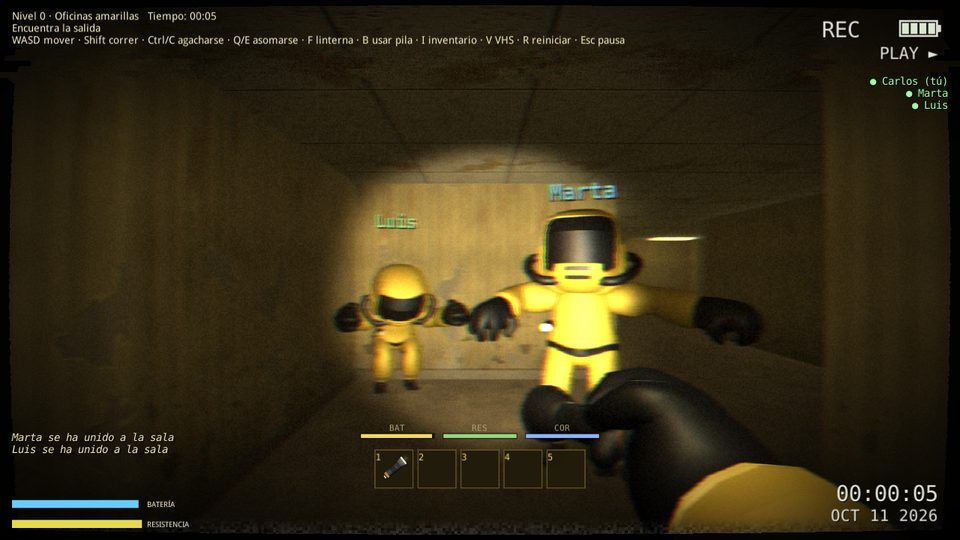
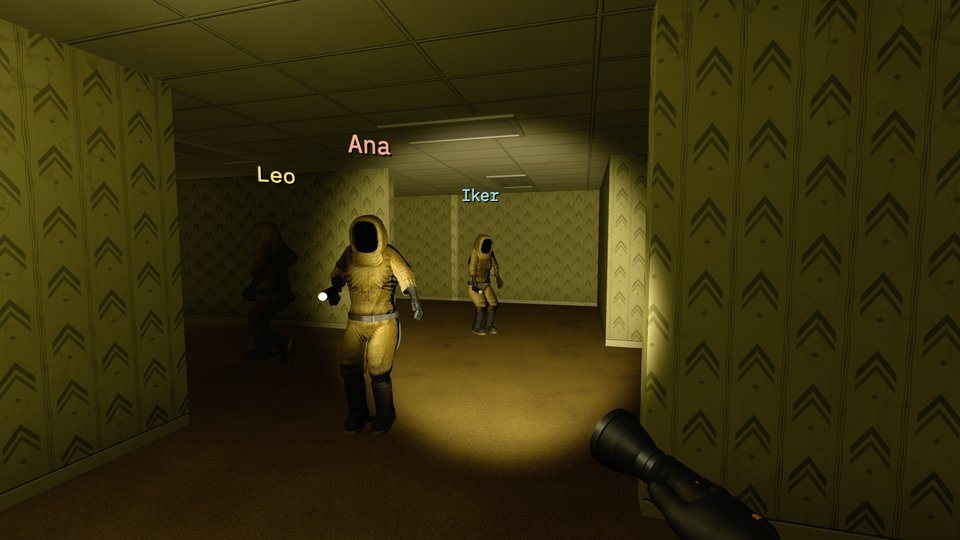
web: v7.11.0 (nuevo personaje del jugador hecho con Character Creator 5; MP-14, compatible con la v7.10.2/7.10.3), Novedades con capturas reales y galería del traje actualizada

diff --git a/docs/index.html b/docs/index.html
@@ -102,13 +102,13 @@
         <h1 class="glitch" id="hero-title" data-title data-text="BACKROOMS: ESCAPA">BACKROOMS: ESCAPA</h1>
         <p class="hero-tagline">Has atravesado la pared equivocada. Zumbido de fluorescentes, moqueta húmeda y kilómetros de pasillos amarillos. Algo te sigue. <strong>Encuentra la salida.</strong></p>
         <div class="hero-actions">
-          <a class="btn btn-primary" href="https://github.com/rootesq-pixel/backrooms-escapa/releases/download/v7.10.3/BackroomsEscape_v7_10_3_Windows.zip" download>
+          <a class="btn btn-primary" href="https://github.com/rootesq-pixel/backrooms-escapa/releases/download/v7.11.0/BackroomsEscape_v7_11_0_Windows.zip" download>
             <svg class="btn-icon" viewBox="0 0 24 24" aria-hidden="true" focusable="false"><path d="M3 5.5 10.5 4.4v7.1H3V5.5Zm0 13 7.5 1.1v-7H3v5.9Zm8.4 1.2L21 21v-8.4h-9.6v7.1Zm0-15.4v7.2H21V3l-9.6 1.3Z"/></svg>
             Descargar para Windows
           </a>
           <a class="btn btn-ghost" href="#trailer">Ver gameplay</a>
         </div>
-        <p class="hero-note">Build temprana v7.10.3 (alarma, latido y pasos más realistas) · Windows 64 bits · ≈ 369 MB (zip). <a href="https://github.com/rootesq-pixel/backrooms-escapa/releases" target="_blank" rel="noopener">Código y versiones<span class="sr-only"> (se abre en una pestaña nueva)</span></a></p>
+        <p class="hero-note">Build temprana v7.11.0 (nuevo personaje del jugador) · Windows 64 bits · ≈ 401 MB (zip). <a href="https://github.com/rootesq-pixel/backrooms-escapa/releases" target="_blank" rel="noopener">Código y versiones<span class="sr-only"> (se abre en una pestaña nueva)</span></a></p>
         <ul class="hero-facts" aria-label="Datos rápidos">
           <li><strong>8</strong> niveles</li>
           <li><strong>7</strong> criaturas</li>
@@ -148,6 +148,19 @@
         </header>
         <ol class="news-list">
           <li class="news-item news-latest">
+            <div class="news-meta"><span class="news-ver">v7.11.0</span><time datetime="2026-10-31">31 oct 2026</time></div>
+            <figure class="news-shot"><img src="assets/img/news-v7-11-0.jpg" alt="Cuatro capturas reales del juego con el nuevo traje hazmat: en primera persona mirando abajo se ven los guantes negros, las botas y la linterna; un compañero con el traje amarillo y la capucha de cara negra iluminado por la linterna; tres compañeros en las Oficinas amarillas; y las dos manos al volante del todoterreno en el desierto." width="1280" height="720" loading="lazy"></figure>
+            <div class="news-body">
+              <h3>Nuevo personaje del jugador</h3>
+              <ul>
+                <li><strong>Traje hazmat nuevo:</strong> el jugador es ahora un personaje realista hecho con <strong>Character Creator 5</strong>: traje amarillo de tela con costuras y arrugas, capucha con cara negra opaca, guantes y botas de goma negra. Mide unos 1,80 m.</li>
+                <li><strong>El mismo en todas partes:</strong> lo ves al mirar hacia abajo (manos, botas y sombra), lo ven tus compañeros en multijugador y es el conductor del todoterreno del Nivel 114, con las dos manos en el volante. Con el casco de buzo del Nivel 7 la capucha queda dentro de la cúpula.</li>
+                <li>Andar, correr y agacharse usan las mismas animaciones de antes, adaptadas al nuevo esqueleto.</li>
+                <li>Multijugador: sin cambios, sigue siendo <strong>MP-14</strong>. La v7.10.2, la v7.10.3 y la v7.11.0 <strong>pueden jugar juntas</strong> (cada uno ve a los demás con el traje de su versión). Si tienes una versión anterior, el menú principal te ofrece actualizar con un clic.</li>
+              </ul>
+            </div>
+          </li>
+          <li class="news-item">
             <div class="news-meta"><span class="news-ver">v7.10.3</span><time datetime="2026-10-29">29 oct 2026</time></div>
             <figure class="news-shot"><img src="assets/img/news-v7-10-3.jpg" alt="Captura del juego en el Nivel 0 durante un apagón rojo: junto al ascensor, las oficinas amarillas bañadas en la luz roja de emergencia mientras suena la alarma de evacuación." width="1280" height="720" loading="lazy"></figure>
             <div class="news-body">
@@ -763,7 +776,7 @@
           <li class="feature">
             <span class="feature-icon" aria-hidden="true">☢</span>
             <h3>Cuerpo completo con traje hazmat</h3>
-            <p>Mira hacia abajo y verás tu traje amarillo, tus botas y tu mano sujetando la linterna. El traje se empapa al entrar en el agua.</p>
+            <p>Mira hacia abajo y verás tu traje amarillo, tus botas y tu mano sujetando la linterna. El traje se empapa al entrar en el agua. Desde la v7.11.0, personaje hecho con Character Creator 5.</p>
           </li>
           <li class="feature">
             <span class="feature-icon" aria-hidden="true">▤</span>
@@ -831,7 +844,7 @@
             <h3>Cómo jugar con amigos</h3>
             <p class="mp-opt"><strong>Opción A · Con código</strong> (recomendada: sin abrir puertos, funciona incluso con CGNAT)</p>
             <ol class="steps">
-              <li><strong>Misma versión.</strong> Jugad con la v7.10.3 o la v7.10.2 (protocolo <strong>MP-14</strong>; se pueden mezclar); las versiones anteriores a la v7.10.2 (también la v7.10.0 y la v7.10.1) no pueden unirse. Desde la v7.5.0, si sale una versión nueva el menú principal os avisa y se actualiza con un clic.</li>
+              <li><strong>Misma versión.</strong> Jugad con la v7.11.0, la v7.10.3 o la v7.10.2 (protocolo <strong>MP-14</strong>; se pueden mezclar); las versiones anteriores a la v7.10.2 (también la v7.10.0 y la v7.10.1) no pueden unirse. Desde la v7.5.0, si sale una versión nueva el menú principal os avisa y se actualiza con un clic.</li>
               <li><strong>Anfitrión:</strong> menú principal → <em>Multijugador</em> → escribe tu nombre → <em>Alojar con código</em>. La sala muestra un código de 6 caracteres: pásaselo a tus amigos.</li>
               <li><strong>Clientes:</strong> <em>Multijugador</em> → nombre → <em>Unirse con código</em> → escribe el código. Entraréis en la sala de espera.</li>
               <li>El anfitrión elige el nivel con ◄ ► y pulsa <em>Empezar</em>. No se puede entrar en una partida ya empezada.</li>
@@ -866,10 +879,10 @@
             <p class="gallery-caption">Sala de espera · vista previa de desarrollo</p>
           </li>
           <li class="gallery-item">
-            <button type="button" class="gallery-btn" data-full="assets/img/mp-ingame.jpg" data-caption="Partida cooperativa: dos compañeros con traje hazmat y su nombre (vista previa de desarrollo; los amigos son simulados).">
-              <img src="assets/img/mp-ingame.jpg" alt="Primera persona en las Oficinas amarillas con dos compañeros con traje hazmat amarillo y sus nombres, Marta y Luis, sobre la cabeza." width="960" height="540" loading="lazy">
+            <button type="button" class="gallery-btn" data-full="assets/img/mp-ingame.jpg" data-caption="Partida cooperativa: tres compañeros con el traje hazmat y su nombre (captura real; los compañeros son simulados).">
+              <img src="assets/img/mp-ingame.jpg" alt="Primera persona en las Oficinas amarillas con la linterna encendida y tres compañeros con traje hazmat amarillo y capucha de cara negra, con sus nombres Ana, Leo e Iker sobre la cabeza." width="960" height="540" loading="lazy">
             </button>
-            <p class="gallery-caption">En partida · vista previa de desarrollo (compañeros simulados)</p>
+            <p class="gallery-caption">En partida · captura real (compañeros simulados)</p>
           </li>
         </ul>
       </div>
@@ -948,19 +961,19 @@
           </li>
           <li class="gallery-item">
             <button type="button" class="gallery-btn" data-full="assets/img/hazmat-tercera-persona.jpg" data-caption="Traje hazmat amarillo del jugador (vista exterior).">
-              <img src="assets/img/hazmat-tercera-persona.jpg" alt="Personaje con traje hazmat amarillo, casco y guantes negros, sujetando una linterna." width="960" height="540" loading="lazy">
+              <img src="assets/img/hazmat-tercera-persona.jpg" alt="Personaje con traje hazmat amarillo, capucha de cara negra, guantes y botas negros, sujetando una linterna encendida en las Oficinas amarillas." width="960" height="540" loading="lazy">
             </button>
             <p class="gallery-caption">Traje hazmat · vista exterior</p>
           </li>
           <li class="gallery-item">
             <button type="button" class="gallery-btn" data-full="assets/img/hazmat-linterna.jpg" data-caption="Primera persona: brazo del traje hazmat sujetando la linterna.">
-              <img src="assets/img/hazmat-linterna.jpg" alt="Vista en primera persona del brazo amarillo del traje con guante negro sujetando una linterna." width="960" height="540" loading="lazy">
+              <img src="assets/img/hazmat-linterna.jpg" alt="Vista en primera persona de la mano con guante negro sujetando la linterna encendida contra la pared amarilla." width="960" height="540" loading="lazy">
             </button>
             <p class="gallery-caption">Primera persona · linterna en mano</p>
           </li>
           <li class="gallery-item">
-            <button type="button" class="gallery-btn" data-full="assets/img/hazmat-mirar-abajo.jpg" data-caption="Primera persona: guantes del traje y su sombra sobre la moqueta.">
-              <img src="assets/img/hazmat-mirar-abajo.jpg" alt="Primera persona: guante negro y manga amarilla del traje, con su sombra proyectada en el suelo." width="960" height="540" loading="lazy">
+            <button type="button" class="gallery-btn" data-full="assets/img/hazmat-mirar-abajo.jpg" data-caption="Primera persona mirando abajo: guantes, linterna y botas del traje.">
+              <img src="assets/img/hazmat-mirar-abajo.jpg" alt="Primera persona mirando abajo: los dos guantes negros, la linterna y las botas sobre la moqueta." width="960" height="540" loading="lazy">
             </button>
             <p class="gallery-caption">Primera persona · cuerpo visible</p>
           </li>
@@ -1031,6 +1044,7 @@
         <p class="credits-note">Licencia comprobada el 11-oct-2026 en las páginas del recurso (CC0 1.0, no exige atribución; se cita igualmente). Transparencia: la página indica que el colaborador declara haber usado IA para generar estos modelos; se publican igualmente bajo CC0. Cambios: unidos en un solo FBX con Blender, texturas reducidas, cabina ensanchada un 30 % para cuatro jugadores. El indicador de planta, las luces, el sonido y la animación de las puertas son procedurales.</p>
 
         <h3 class="credits-sub">Cuerpo del jugador (traje hazmat)</h3>
+        <p class="credits-note">Desde la v7.11.0 la malla y las texturas del jugador son un personaje propio hecho con <strong>Character Creator 5</strong>. Las animaciones (Idle, Walk, Run y Duck) siguen siendo las del modelo de Quaternius, adaptadas al nuevo esqueleto.</p>
         <div class="table-wrap">
           <table class="credits-table">
             <thead><tr><th scope="col">Modelo (Id)</th><th scope="col">Nombre</th><th scope="col">Autor</th><th scope="col">Licencia</th><th scope="col">Fuente</th></tr></thead>
@@ -1067,11 +1081,11 @@
         <div class="download-box">
           <div class="download-main">
             <p class="download-platform">Windows PC · 64 bits</p>
-            <a class="btn btn-primary" href="https://github.com/rootesq-pixel/backrooms-escapa/releases/download/v7.10.3/BackroomsEscape_v7_10_3_Windows.zip" download>
+            <a class="btn btn-primary" href="https://github.com/rootesq-pixel/backrooms-escapa/releases/download/v7.11.0/BackroomsEscape_v7_11_0_Windows.zip" download>
               <svg class="btn-icon" viewBox="0 0 24 24" aria-hidden="true" focusable="false"><path d="M3 5.5 10.5 4.4v7.1H3V5.5Zm0 13 7.5 1.1v-7H3v5.9Zm8.4 1.2L21 21v-8.4h-9.6v7.1Zm0-15.4v7.2H21V3l-9.6 1.3Z"/></svg>
               Descargar para Windows
             </a>
-            <p class="download-note"><strong>v7.10.3</strong> · ZIP de ≈ 369 MB. Descomprime y ejecuta <code>BackroomsEscape.exe</code>.</p>
+            <p class="download-note"><strong>v7.11.0</strong> · ZIP de ≈ 401 MB. Descomprime y ejecuta <code>BackroomsEscape.exe</code>.</p>
             <p class="download-note download-smartscreen"><strong>Aviso de Windows SmartScreen:</strong> el ejecutable no está firmado digitalmente, por lo que Windows puede mostrar «Windows protegió su PC». Pulsa <em>Más información</em> → <em>Ejecutar de todas formas</em> si confías en la descarga. Es una build temprana.</p>
             <p class="download-note"><a href="https://github.com/rootesq-pixel/backrooms-escapa/releases" target="_blank" rel="noopener">Código y versiones<span class="sr-only"> (se abre en una pestaña nueva)</span></a> · <a href="https://github.com/rootesq-pixel/backrooms-escapa" target="_blank" rel="noopener">Repositorio en GitHub<span class="sr-only"> (se abre en una pestaña nueva)</span></a></p>
           </div>
